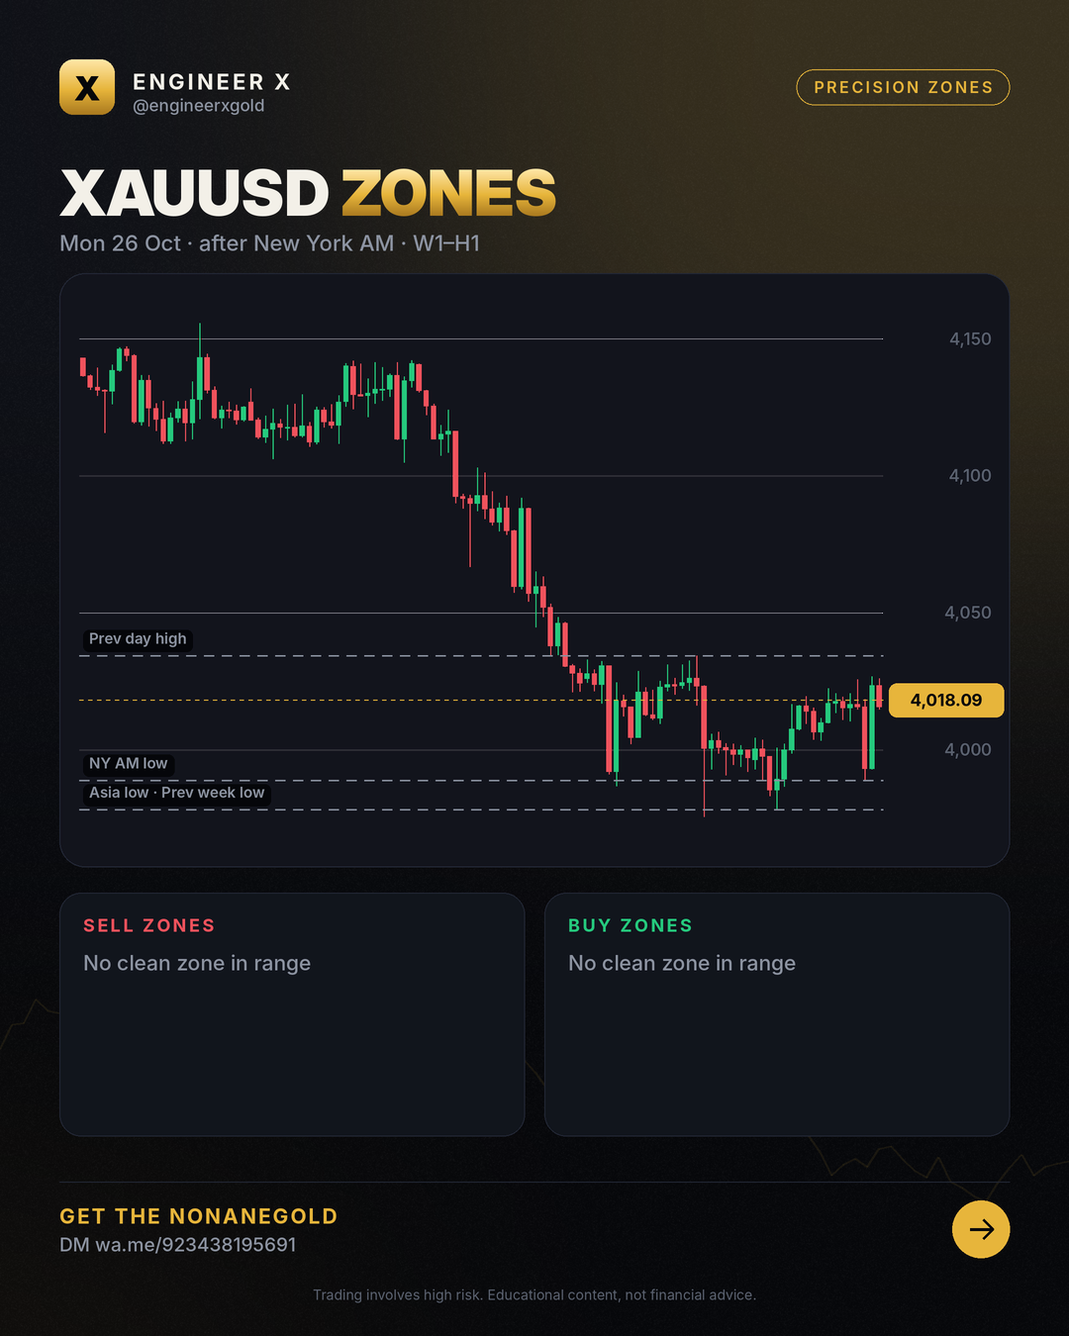
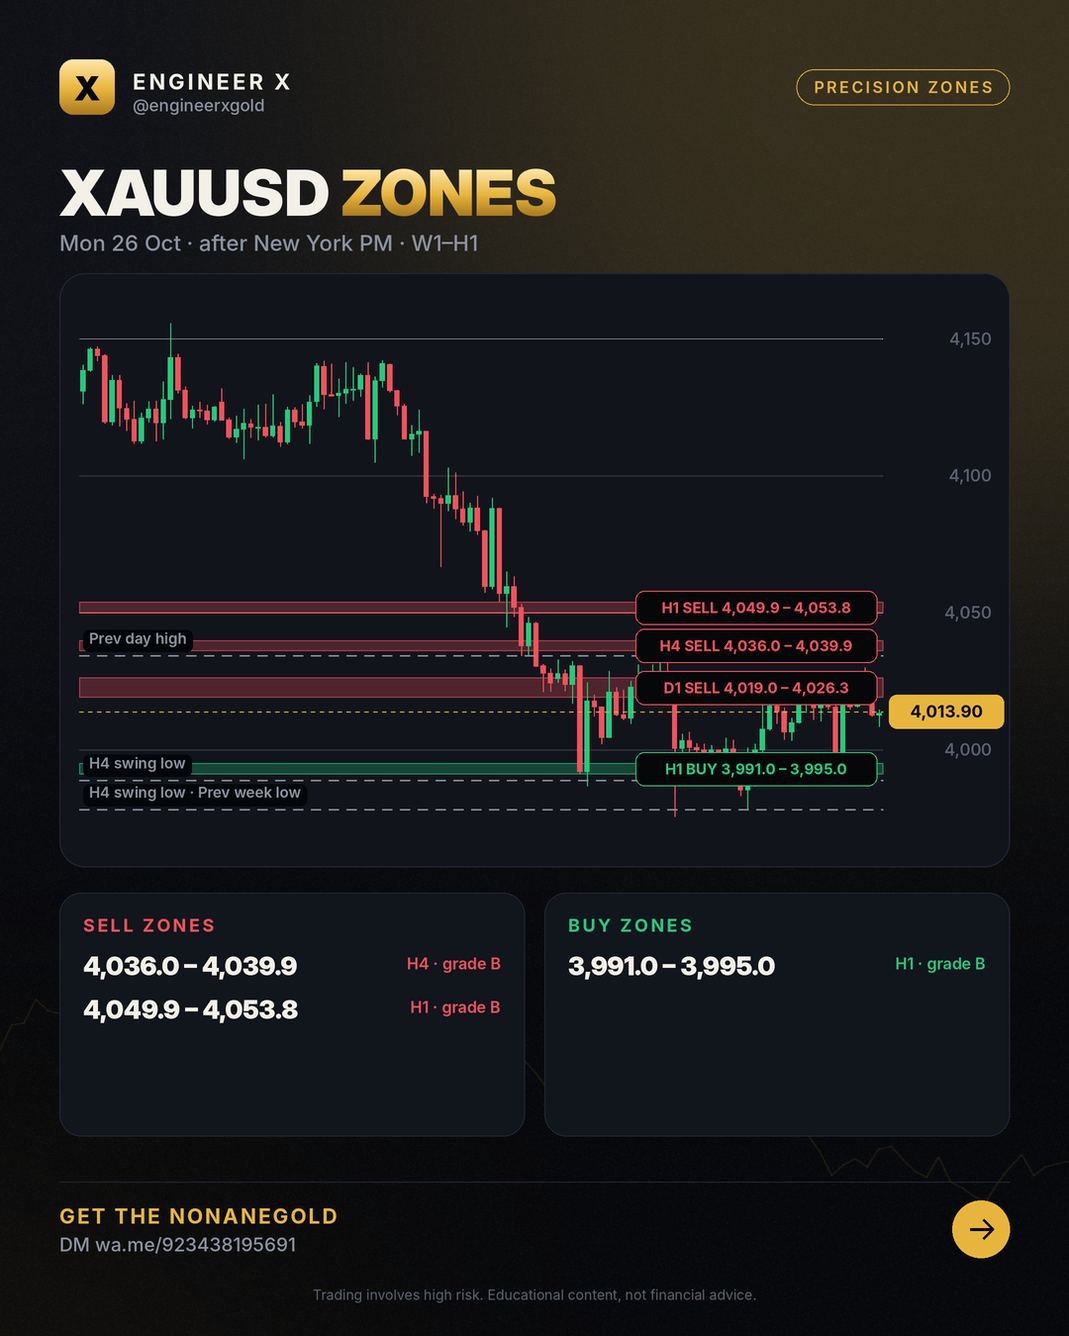
zones 2026-10-26 Mon 26 Oct · after New York PM · W1–H1

diff --git a/zones/2026-10-26/index.html b/zones/2026-10-26/index.html
@@ -4,7 +4,7 @@
 <meta charset="utf-8">
 <meta name="viewport" content="width=device-width,initial-scale=1">
 <title>Gold Forecast – 26 Oct 2026 (W1–H1)</title>
-<meta name="description" content="XAUUSD buy and sell zones for 2026-10-26: tested W1, D1, H4 and H1 zones with invalidation levels, updated after the Asian, London and New York sessions. Price 4,018.09.">
+<meta name="description" content="XAUUSD buy and sell zones for 2026-10-26: tested W1, D1, H4 and H1 zones with invalidation levels, updated after the Asian, London and New York sessions. Price 4,013.90.">
 <meta name="robots" content="index,follow,max-image-preview:large,max-snippet:-1,max-video-preview:-1">
 <meta name="author" content="Engr. M Ahmad Mehmood">
 <link rel="canonical" href="https://engineerxgold.github.io/zones/2026-10-26/">
@@ -12,7 +12,7 @@
 <link rel="apple-touch-icon" href="../../img/logo.png">
 <meta property="og:site_name" content="Engineer X">
 <meta property="og:title" content="Gold Forecast – 26 Oct 2026 (W1–H1)">
-<meta property="og:description" content="XAUUSD buy and sell zones for 2026-10-26: tested W1, D1, H4 and H1 zones with invalidation levels, updated after the Asian, London and New York sessions. Price 4,018.09.">
+<meta property="og:description" content="XAUUSD buy and sell zones for 2026-10-26: tested W1, D1, H4 and H1 zones with invalidation levels, updated after the Asian, London and New York sessions. Price 4,013.90.">
 <meta property="og:type" content="article">
 <meta property="og:url" content="https://engineerxgold.github.io/zones/2026-10-26/">
 <meta property="og:image" content="https://engineerxgold.github.io/zones/img/2026-10-26.png">
@@ -22,7 +22,7 @@
 <meta property="og:locale" content="en_US">
 <meta name="twitter:card" content="summary_large_image">
 <meta name="twitter:title" content="Gold Forecast – 26 Oct 2026 (W1–H1)">
-<meta name="twitter:description" content="XAUUSD buy and sell zones for 2026-10-26: tested W1, D1, H4 and H1 zones with invalidation levels, updated after the Asian, London and New York sessions. Price 4,018.09.">
+<meta name="twitter:description" content="XAUUSD buy and sell zones for 2026-10-26: tested W1, D1, H4 and H1 zones with invalidation levels, updated after the Asian, London and New York sessions. Price 4,013.90.">
 <meta name="twitter:image" content="https://engineerxgold.github.io/zones/img/2026-10-26.png">
 <meta name="twitter:image:alt" content="Gold Forecast – 26 Oct 2026 (W1–H1)">
 
@@ -32,7 +32,7 @@
 <link rel="preconnect" href="https://fonts.googleapis.com">
 <link rel="preconnect" href="https://fonts.gstatic.com" crossorigin>
 <link href="https://fonts.googleapis.com/css2?family=Inter:wght@400;500;600;800;900&display=swap" rel="stylesheet">
-<script type="application/ld+json">{"@context": "https://schema.org", "@type": "Organization", "@id": "https://engineerxgold.github.io/#organization", "name": "Engineer X", "url": "https://engineerxgold.github.io/", "logo": {"@type": "ImageObject", "url": "https://engineerxgold.github.io/img/logo.png", "width": 512, "height": 512}, "sameAs": ["https://t.me/engineerxgold"]}</script><script type="application/ld+json">{"@context": "https://schema.org", "@type": "Article", "headline": "Gold Forecast – 26 Oct 2026 (W1–H1)", "datePublished": "2026-10-26T08:00:00+05:00", "dateModified": "2026-10-26T21:03:40+05:00", "author": {"@type": "Person", "@id": "https://engineerxgold.github.io/about/#author", "name": "Engr. M Ahmad Mehmood", "url": "https://engineerxgold.github.io/about/", "jobTitle": "MQL5 Expert Advisor developer and gold market analyst", "worksFor": {"@id": "https://engineerxgold.github.io/#organization"}}, "publisher": {"@id": "https://engineerxgold.github.io/#organization"}, "image": "https://engineerxgold.github.io/zones/img/2026-10-26.png", "mainEntityOfPage": "https://engineerxgold.github.io/zones/2026-10-26/"}</script>
+<script type="application/ld+json">{"@context": "https://schema.org", "@type": "Organization", "@id": "https://engineerxgold.github.io/#organization", "name": "Engineer X", "url": "https://engineerxgold.github.io/", "logo": {"@type": "ImageObject", "url": "https://engineerxgold.github.io/img/logo.png", "width": 512, "height": 512}, "sameAs": ["https://t.me/engineerxgold"]}</script><script type="application/ld+json">{"@context": "https://schema.org", "@type": "Article", "headline": "Gold Forecast – 26 Oct 2026 (W1–H1)", "datePublished": "2026-10-26T08:00:00+05:00", "dateModified": "2026-10-27T02:03:18+05:00", "author": {"@type": "Person", "@id": "https://engineerxgold.github.io/about/#author", "name": "Engr. M Ahmad Mehmood", "url": "https://engineerxgold.github.io/about/", "jobTitle": "MQL5 Expert Advisor developer and gold market analyst", "worksFor": {"@id": "https://engineerxgold.github.io/#organization"}}, "publisher": {"@id": "https://engineerxgold.github.io/#organization"}, "image": "https://engineerxgold.github.io/zones/img/2026-10-26.png", "mainEntityOfPage": "https://engineerxgold.github.io/zones/2026-10-26/"}</script>
 
 <style>
 :root{--gold:#E7B53B;--gold-hi:#FFE7A8;--bg:#07080B;--bg2:#0E1016;--panel:#12151D;--line:#232836;--green:#25C97D;--red:#F0525C;--text:#F3F0E8;--muted:#8C93A1}
@@ -101,7 +101,7 @@ footer .fl a{color:var(--muted);margin-right:16px}
 <div class="wrap">
 <nav><a class="logo" href="../../"><b>X</b>Engineer X</a>
 <div class="links"><a href="../../zones/">Daily Zones</a><a href="../../blog/">Learn</a><a href="../../ea/">Gold EA</a><a href="../../about/">About</a><a class="cta" href="https://wa.me/923438195691">Get the EA</a></div></nav>
-<article><p class="crumbs"><a href="../../">Home</a> › <a href="../">Zones</a> › 2026-10-26</p><h1>Gold Forecast – 26 Oct 2026 (W1–H1)</h1><p class="byline">Mon 26 Oct · after New York AM · W1–H1 · by Engr. M Ahmad Mehmood</p><img src="../img/2026-10-26.png" alt="XAUUSD zone map 2026-10-26" width="1080" height="1350" loading="eager"><h2>Zones</h2><p>No clean zone within reach right now.</p><h2>How to read this map</h2><p>Bands are where price is expected to react; they are not entries. Trading beyond the invalidation price ends the zone; each zone counts once (first touch). Highs and lows listed as liquidity are targets: on 10 years of gold price ran through them more often than through random levels.</p><div class="ctabox"><h3>🤖 Trade the zones with the NonaneGold</h3><p>Free signals group access + setup help Message us and we will help you set it up.</p><div class="btns"><a class="btn gold" href="https://wa.me/923438195691">Get the EA on Telegram</a><a class="btn ghost" href="../../ea/">About the EA</a></div></div></article>
+<article><p class="crumbs"><a href="../../">Home</a> › <a href="../">Zones</a> › 2026-10-26</p><h1>Gold Forecast – 26 Oct 2026 (W1–H1)</h1><p class="byline">Mon 26 Oct · after New York PM · W1–H1 · by Engr. M Ahmad Mehmood</p><img src="../img/2026-10-26.png" alt="XAUUSD zone map 2026-10-26" width="1080" height="1350" loading="eager"><h2>Zones</h2><div style="overflow-x:auto"><table style="width:100%;border-collapse:collapse;font-size:15px"><tr><th align=left>Zone</th><th align=left>Price band</th><th>Grade</th><th align=left>Invalid</th><th align=left>Why</th></tr><tr><td>D1 sell</td><td><b>4,019.01 – 4,026.29</b></td><td>B</td><td>above 4,027.61</td><td>MSNR resistance levels (fresh): D GAP 4024.32, 4H A 4020.98, 30m A 4023.98, 15m GAP 4023.98. Wrong if price trades above 4027.61.</td></tr><tr><td>H4 sell</td><td><b>4,035.97 – 4,039.91</b></td><td>B</td><td>above 4,041.23</td><td>MSNR resistance level (fresh): 4H GAP 4037.94. Wrong if price trades above 4041.23.</td></tr><tr><td>H1 sell</td><td><b>4,049.91 – 4,053.85</b></td><td>B</td><td>above 4,055.17</td><td>MSNR resistance level (fresh): 1H GAP 4051.88. Wrong if price trades above 4055.17.</td></tr><tr><td>H1 buy</td><td><b>3,991.03 – 3,994.97</b></td><td>B</td><td>below 3,989.71</td><td>MSNR support levels (fresh): 1H V 3993.00, 30m V 3993.00. Wrong if price trades below 3989.71.</td></tr></table></div><h2>How to read this map</h2><p>Bands are where price is expected to react; they are not entries. Trading beyond the invalidation price ends the zone; each zone counts once (first touch). Highs and lows listed as liquidity are targets: on 10 years of gold price ran through them more often than through random levels.</p><div class="ctabox"><h3>🤖 Trade the zones with the NonaneGold</h3><p>Free signals group access + setup help Message us and we will help you set it up.</p><div class="btns"><a class="btn gold" href="https://wa.me/923438195691">Get the EA on Telegram</a><a class="btn ghost" href="../../ea/">About the EA</a></div></div></article>
 <footer>
 <div class="warn"><b>Risk warning:</b> Trading gold, forex and CFDs carries a high risk of losing money and is not suitable for everyone. Past results do not guarantee future results. Everything on this site is educational and not financial advice. We are an introducing partner of our broker and may earn a commission on accounts opened through our link.</div>
 <p class="fl" style="margin-top:18px"><a href="../../about/">About &amp; methodology</a><a href="../../privacy.html">Privacy</a><a href="../../terms.html">Terms &amp; risk disclosure</a><a href="../../feed.xml">RSS</a><a href="https://t.me/engineerxgold">Telegram</a></p>

diff --git a/zones/index.html b/zones/index.html
@@ -4,7 +4,7 @@
 <meta charset="utf-8">
 <meta name="viewport" content="width=device-width,initial-scale=1">
 <title>XAUUSD Zones Today – Buy &amp; Sell Zones (H4, H1) | Engineer X</title>
-<meta name="description" content="XAUUSD buy and sell zones for 2026-10-26: tested W1, D1, H4 and H1 zones with invalidation levels, updated after the Asian, London and New York sessions. Price 4,018.09.">
+<meta name="description" content="XAUUSD buy and sell zones for 2026-10-26: tested W1, D1, H4 and H1 zones with invalidation levels, updated after the Asian, London and New York sessions. Price 4,013.90.">
 <meta name="robots" content="index,follow,max-image-preview:large,max-snippet:-1,max-video-preview:-1">
 <meta name="author" content="Engr. M Ahmad Mehmood">
 <link rel="canonical" href="https://engineerxgold.github.io/zones/">
@@ -12,7 +12,7 @@
 <link rel="apple-touch-icon" href="../img/logo.png">
 <meta property="og:site_name" content="Engineer X">
 <meta property="og:title" content="XAUUSD Zones Today – Buy &amp; Sell Zones (H4, H1) | Engineer X">
-<meta property="og:description" content="XAUUSD buy and sell zones for 2026-10-26: tested W1, D1, H4 and H1 zones with invalidation levels, updated after the Asian, London and New York sessions. Price 4,018.09.">
+<meta property="og:description" content="XAUUSD buy and sell zones for 2026-10-26: tested W1, D1, H4 and H1 zones with invalidation levels, updated after the Asian, London and New York sessions. Price 4,013.90.">
 <meta property="og:type" content="website">
 <meta property="og:url" content="https://engineerxgold.github.io/zones/">
 <meta property="og:image" content="https://engineerxgold.github.io/zones/img/2026-10-26.png">
@@ -22,7 +22,7 @@
 <meta property="og:locale" content="en_US">
 <meta name="twitter:card" content="summary_large_image">
 <meta name="twitter:title" content="XAUUSD Zones Today – Buy &amp; Sell Zones (H4, H1) | Engineer X">
-<meta name="twitter:description" content="XAUUSD buy and sell zones for 2026-10-26: tested W1, D1, H4 and H1 zones with invalidation levels, updated after the Asian, London and New York sessions. Price 4,018.09.">
+<meta name="twitter:description" content="XAUUSD buy and sell zones for 2026-10-26: tested W1, D1, H4 and H1 zones with invalidation levels, updated after the Asian, London and New York sessions. Price 4,013.90.">
 <meta name="twitter:image" content="https://engineerxgold.github.io/zones/img/2026-10-26.png">
 <meta name="twitter:image:alt" content="XAUUSD Zones Today – Buy &amp; Sell Zones (H4, H1) | Engineer X">
 
@@ -101,7 +101,7 @@ footer .fl a{color:var(--muted);margin-right:16px}
 <div class="wrap">
 <nav><a class="logo" href="../"><b>X</b>Engineer X</a>
 <div class="links"><a href="../zones/">Daily Zones</a><a href="../blog/">Learn</a><a href="../ea/">Gold EA</a><a href="../about/">About</a><a class="cta" href="https://wa.me/923438195691">Get the EA</a></div></nav>
-<section class="hero"><span class="chip">Updated Mon 26 Oct · after New York AM · W1–H1</span><h1>XAUUSD <span class="gold">precision zones</span></h1><p>XAUUSD buy and sell zones for 2026-10-26: tested W1, D1, H4 and H1 zones with invalidation levels, updated after the Asian, London and New York sessions. Price 4,018.09.</p></section><img src="img/2026-10-26.png" alt="Latest XAUUSD zone map" width="1080" height="1350"><section><h2>Current zones</h2><p>No clean zone within reach right now.</p></section><section><h2>Honest scorecard</h2><div class="grid"><div class="card"><div class="n">150</div><p>zones published (30 days)</p></div><div class="card"><div class="n">84</div><p>held (moved 1 hourly ATR away)</p></div><div class="card"><div class="n">7</div><p>broke (traded beyond the invalidation)</p></div><div class="card"><div class="n">92%</div><p>hold rate of decided zones</p></div></div></section><div class="ctabox"><h3>🤖 Trade the zones with the NonaneGold</h3><p>Free signals group access + setup help Message us and we will help you set it up.</p><div class="btns"><a class="btn gold" href="https://wa.me/923438195691">Get the EA on Telegram</a><a class="btn ghost" href="../ea/">About the EA</a></div></div><section><h2>Archive</h2><div class="grid posts"><a class="card" href="2026-10-26/"><span class="date">2026-10-26</span><h3>XAUUSD zones 2026-10-26</h3></a><a class="card" href="2026-10-23/"><span class="date">2026-10-23</span><h3>XAUUSD zones 2026-10-23</h3></a><a class="card" href="2026-10-22/"><span class="date">2026-10-22</span><h3>XAUUSD zones 2026-10-22</h3></a><a class="card" href="2026-10-21/"><span class="date">2026-10-21</span><h3>XAUUSD zones 2026-10-21</h3></a><a class="card" href="2026-10-20/"><span class="date">2026-10-20</span><h3>XAUUSD zones 2026-10-20</h3></a><a class="card" href="2026-10-19/"><span class="date">2026-10-19</span><h3>XAUUSD zones 2026-10-19</h3></a><a class="card" href="2026-10-16/"><span class="date">2026-10-16</span><h3>XAUUSD zones 2026-10-16</h3></a><a class="card" href="2026-10-15/"><span class="date">2026-10-15</span><h3>XAUUSD zones 2026-10-15</h3></a><a class="card" href="2026-10-14/"><span class="date">2026-10-14</span><h3>XAUUSD zones 2026-10-14</h3></a><a class="card" href="2026-10-13/"><span class="date">2026-10-13</span><h3>XAUUSD zones 2026-10-13</h3></a></div></section>
+<section class="hero"><span class="chip">Updated Mon 26 Oct · after New York PM · W1–H1</span><h1>XAUUSD <span class="gold">precision zones</span></h1><p>XAUUSD buy and sell zones for 2026-10-26: tested W1, D1, H4 and H1 zones with invalidation levels, updated after the Asian, London and New York sessions. Price 4,013.90.</p></section><img src="img/2026-10-26.png" alt="Latest XAUUSD zone map" width="1080" height="1350"><section><h2>Current zones</h2><div style="overflow-x:auto"><table style="width:100%;border-collapse:collapse;font-size:15px"><tr><th align=left>Zone</th><th align=left>Price band</th><th>Grade</th><th align=left>Invalid</th><th align=left>Why</th></tr><tr><td>D1 sell</td><td><b>4,019.01 – 4,026.29</b></td><td>B</td><td>above 4,027.61</td><td>MSNR resistance levels (fresh): D GAP 4024.32, 4H A 4020.98, 30m A 4023.98, 15m GAP 4023.98. Wrong if price trades above 4027.61.</td></tr><tr><td>H4 sell</td><td><b>4,035.97 – 4,039.91</b></td><td>B</td><td>above 4,041.23</td><td>MSNR resistance level (fresh): 4H GAP 4037.94. Wrong if price trades above 4041.23.</td></tr><tr><td>H1 sell</td><td><b>4,049.91 – 4,053.85</b></td><td>B</td><td>above 4,055.17</td><td>MSNR resistance level (fresh): 1H GAP 4051.88. Wrong if price trades above 4055.17.</td></tr><tr><td>H1 buy</td><td><b>3,991.03 – 3,994.97</b></td><td>B</td><td>below 3,989.71</td><td>MSNR support levels (fresh): 1H V 3993.00, 30m V 3993.00. Wrong if price trades below 3989.71.</td></tr></table></div></section><section><h2>Honest scorecard</h2><div class="grid"><div class="card"><div class="n">150</div><p>zones published (30 days)</p></div><div class="card"><div class="n">84</div><p>held (moved 1 hourly ATR away)</p></div><div class="card"><div class="n">7</div><p>broke (traded beyond the invalidation)</p></div><div class="card"><div class="n">92%</div><p>hold rate of decided zones</p></div></div></section><div class="ctabox"><h3>🤖 Trade the zones with the NonaneGold</h3><p>Free signals group access + setup help Message us and we will help you set it up.</p><div class="btns"><a class="btn gold" href="https://wa.me/923438195691">Get the EA on Telegram</a><a class="btn ghost" href="../ea/">About the EA</a></div></div><section><h2>Archive</h2><div class="grid posts"><a class="card" href="2026-10-26/"><span class="date">2026-10-26</span><h3>XAUUSD zones 2026-10-26</h3></a><a class="card" href="2026-10-23/"><span class="date">2026-10-23</span><h3>XAUUSD zones 2026-10-23</h3></a><a class="card" href="2026-10-22/"><span class="date">2026-10-22</span><h3>XAUUSD zones 2026-10-22</h3></a><a class="card" href="2026-10-21/"><span class="date">2026-10-21</span><h3>XAUUSD zones 2026-10-21</h3></a><a class="card" href="2026-10-20/"><span class="date">2026-10-20</span><h3>XAUUSD zones 2026-10-20</h3></a><a class="card" href="2026-10-19/"><span class="date">2026-10-19</span><h3>XAUUSD zones 2026-10-19</h3></a><a class="card" href="2026-10-16/"><span class="date">2026-10-16</span><h3>XAUUSD zones 2026-10-16</h3></a><a class="card" href="2026-10-15/"><span class="date">2026-10-15</span><h3>XAUUSD zones 2026-10-15</h3></a><a class="card" href="2026-10-14/"><span class="date">2026-10-14</span><h3>XAUUSD zones 2026-10-14</h3></a><a class="card" href="2026-10-13/"><span class="date">2026-10-13</span><h3>XAUUSD zones 2026-10-13</h3></a></div></section>
 <footer>
 <div class="warn"><b>Risk warning:</b> Trading gold, forex and CFDs carries a high risk of losing money and is not suitable for everyone. Past results do not guarantee future results. Everything on this site is educational and not financial advice. We are an introducing partner of our broker and may earn a commission on accounts opened through our link.</div>
 <p class="fl" style="margin-top:18px"><a href="../about/">About &amp; methodology</a><a href="../privacy.html">Privacy</a><a href="../terms.html">Terms &amp; risk disclosure</a><a href="../feed.xml">RSS</a><a href="https://t.me/engineerxgold">Telegram</a></p>

diff --git a/index.html b/index.html
@@ -101,7 +101,7 @@ footer .fl a{color:var(--muted);margin-right:16px}
 <div class="wrap">
 <nav><a class="logo" href="./"><b>X</b>Engineer X</a>
 <div class="links"><a href="./zones/">Daily Zones</a><a href="./blog/">Learn</a><a href="./ea/">Gold EA</a><a href="./about/">About</a><a class="cta" href="https://wa.me/923438195691">Get the EA</a></div></nav>
-<section class="hero"><span class="chip">XAUUSD · W1–H1 · every session</span><h1>Gold <span class="gold">precision zones</span>, updated after every session</h1><p>Tested buy and sell zones with clear invalidation, a scorecard of every result, and the NonaneGold for traders who want it automated.</p><div class="btns"><a class="btn gold" href="zones/">See today's zones</a><a class="btn ghost" href="https://wa.me/923438195691">Get the EA</a></div></section><section><h2>Latest map Mon 26 Oct · after New York AM · W1–H1</h2><img src="zones/img/2026-10-26.png" alt="Latest XAUUSD zones" width="1080" height="1350"></section><div class="ctabox"><h3>🤖 Trade the zones with the NonaneGold</h3><p>Free signals group access + setup help Message us and we will help you set it up.</p><div class="btns"><a class="btn gold" href="https://wa.me/923438195691">Get the EA on Telegram</a><a class="btn ghost" href="ea/">About the EA</a></div></div><section><h2>Learn</h2><div class="grid posts"><a class="card" href="blog/gold-supply-and-demand-zones-for-xauusd-traders/"><span class="date">2026-10-26</span><h3>Gold supply and demand zones for XAUUSD traders</h3></a><a class="card" href="blog/xauusd-price-navigating-key-zones-and-liquidity/"><span class="date">2026-10-24</span><h3>xauusd price: Navigating Key Zones and Liquidity</h3></a><a class="card" href="blog/gold-supply-and-demand-zones-h4-trend-map/"><span class="date">2026-10-23</span><h3>Gold Supply and Demand Zones: H4 Trend Map</h3></a><a class="card" href="blog/gold-forecast-critical-h4-bearish-zones-liquidity/"><span class="date">2026-10-21</span><h3>Gold Forecast: Critical H4 Bearish Zones &amp; Liquidity</h3></a><a class="card" href="blog/gold-supply-and-demand-zones-h4-w1-map-analysis/"><span class="date">2026-10-20</span><h3>Gold Supply and Demand Zones: H4 &amp; W1 Map Analysis</h3></a><a class="card" href="blog/gold-trading-reading-h4-trend-liquidity-zones/"><span class="date">2026-10-19</span><h3>Gold Trading: Reading H4 Trend &amp; Liquidity Zones</h3></a></div></section><section><h2>FAQ</h2><details><summary>What is a precision zone?</summary><p>A point of interest from a trading book (OTE 0.705, balanced price range, weekly close level, daily order block) that held better than random levels on 10 years of gold. Each zone has an invalidation price.</p></details><details><summary>How often are the zones updated?</summary><p>A daily plan at the Asian open, then after the Asian, London and New York sessions.</p></details><details><summary>Are these trade signals?</summary><p>No. Zones are areas to watch. Wait for your own confirmation and manage risk.</p></details><details><summary>How do I get the Gold EA?</summary><p>Message us on Telegram or WhatsApp; we answer and help with the setup.</p></details></section>
+<section class="hero"><span class="chip">XAUUSD · W1–H1 · every session</span><h1>Gold <span class="gold">precision zones</span>, updated after every session</h1><p>Tested buy and sell zones with clear invalidation, a scorecard of every result, and the NonaneGold for traders who want it automated.</p><div class="btns"><a class="btn gold" href="zones/">See today's zones</a><a class="btn ghost" href="https://wa.me/923438195691">Get the EA</a></div></section><section><h2>Latest map Mon 26 Oct · after New York PM · W1–H1</h2><img src="zones/img/2026-10-26.png" alt="Latest XAUUSD zones" width="1080" height="1350"></section><div class="ctabox"><h3>🤖 Trade the zones with the NonaneGold</h3><p>Free signals group access + setup help Message us and we will help you set it up.</p><div class="btns"><a class="btn gold" href="https://wa.me/923438195691">Get the EA on Telegram</a><a class="btn ghost" href="ea/">About the EA</a></div></div><section><h2>Learn</h2><div class="grid posts"><a class="card" href="blog/gold-supply-and-demand-zones-for-xauusd-traders/"><span class="date">2026-10-26</span><h3>Gold supply and demand zones for XAUUSD traders</h3></a><a class="card" href="blog/xauusd-price-navigating-key-zones-and-liquidity/"><span class="date">2026-10-24</span><h3>xauusd price: Navigating Key Zones and Liquidity</h3></a><a class="card" href="blog/gold-supply-and-demand-zones-h4-trend-map/"><span class="date">2026-10-23</span><h3>Gold Supply and Demand Zones: H4 Trend Map</h3></a><a class="card" href="blog/gold-forecast-critical-h4-bearish-zones-liquidity/"><span class="date">2026-10-21</span><h3>Gold Forecast: Critical H4 Bearish Zones &amp; Liquidity</h3></a><a class="card" href="blog/gold-supply-and-demand-zones-h4-w1-map-analysis/"><span class="date">2026-10-20</span><h3>Gold Supply and Demand Zones: H4 &amp; W1 Map Analysis</h3></a><a class="card" href="blog/gold-trading-reading-h4-trend-liquidity-zones/"><span class="date">2026-10-19</span><h3>Gold Trading: Reading H4 Trend &amp; Liquidity Zones</h3></a></div></section><section><h2>FAQ</h2><details><summary>What is a precision zone?</summary><p>A point of interest from a trading book (OTE 0.705, balanced price range, weekly close level, daily order block) that held better than random levels on 10 years of gold. Each zone has an invalidation price.</p></details><details><summary>How often are the zones updated?</summary><p>A daily plan at the Asian open, then after the Asian, London and New York sessions.</p></details><details><summary>Are these trade signals?</summary><p>No. Zones are areas to watch. Wait for your own confirmation and manage risk.</p></details><details><summary>How do I get the Gold EA?</summary><p>Message us on Telegram or WhatsApp; we answer and help with the setup.</p></details></section>
 <footer>
 <div class="warn"><b>Risk warning:</b> Trading gold, forex and CFDs carries a high risk of losing money and is not suitable for everyone. Past results do not guarantee future results. Everything on this site is educational and not financial advice. We are an introducing partner of our broker and may earn a commission on accounts opened through our link.</div>
 <p class="fl" style="margin-top:18px"><a href="./about/">About &amp; methodology</a><a href="./privacy.html">Privacy</a><a href="./terms.html">Terms &amp; risk disclosure</a><a href="./feed.xml">RSS</a><a href="https://t.me/engineerxgold">Telegram</a></p>
